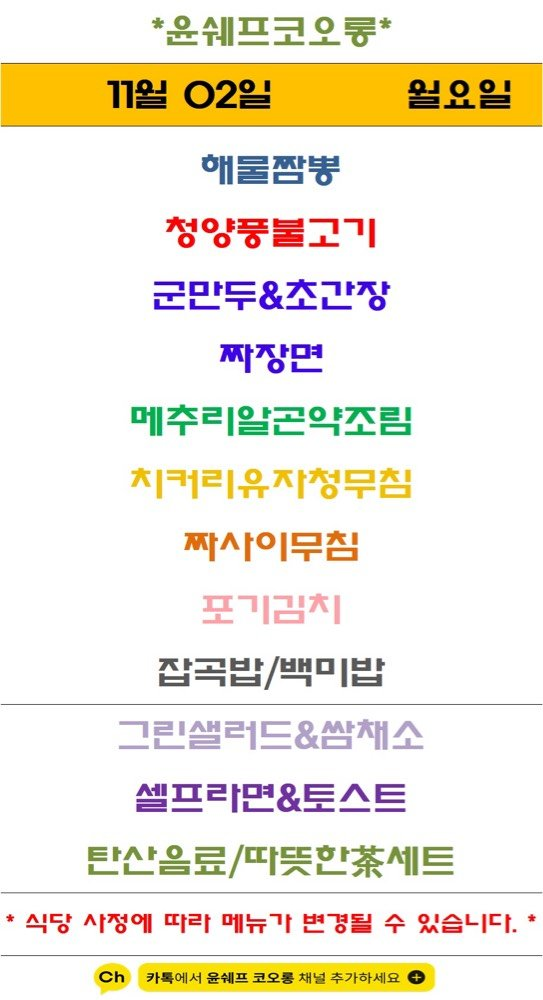
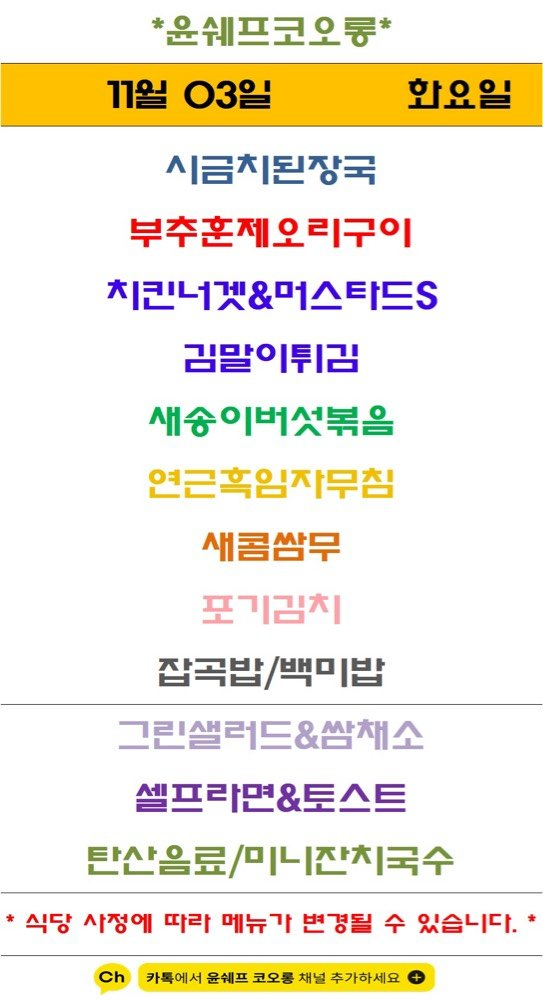
Update menu board assets

diff --git a/guro-menu/index.html b/guro-menu/index.html
@@ -32,7 +32,7 @@
   </header>
   <section class="meta">
     <div><small>기준 날짜</small><strong>2026년 11월 3일 화요일</strong></div>
-    <div><small>최종 갱신</small><strong>2026-11-03 09:03:43</strong></div>
+    <div><small>최종 갱신</small><strong>2026-11-03 09:13:56</strong></div>
     <div><small>등록 식당</small><strong>5개</strong></div>
   </section>
   <div class="notice">공개 카카오 채널의 메뉴 이미지를 자동 수집하고 OCR로 정리합니다. 텍스트에 오타가 있을 수 있으니 식단 이미지를 함께 확인해 주세요.</div>
@@ -104,7 +104,7 @@
         </div>
         <img class="menu-image" src="./images/yoon-chef-kolon.png" alt="윤쉐프 코오롱 식단 이미지" loading="lazy">
         <p class="message">최신 공개 식단 이미지의 텍스트입니다. 날짜는 원본 이미지를 확인해 주세요.</p>
-        <ul><li>정양풍불고기</li><li>군만두&amp;조관장</li><li>짜장면</li><li>메주리알곤약조림</li><li>시커리음자정무침</li><li>짜사이무침</li><li>잡곡밥/백미밥</li><li>그린샐러드&amp;쌈채소</li><li>셀프라면&amp;토스트</li><li>탄산음료/따뜻한추세트</li></ul>
+        <ul><li>월 O32! 한요일</li><li>시금지된장국</li><li>부주훈제오리구이</li><li>지킨너것&amp;머스타드6</li><li>러말이튀김</li><li>새송이버섯볶음</li><li>새콤쌈무</li><li>잡곡밥/백미밥</li><li>그린샐러드&amp;쌈재소</li><li>셀프라면&amp;토스트</li><li>탄산옴료/미니잔치국수</li></ul>
       </article>
   </section>
   <section class="seo" aria-label="검색 정보">한신IT타워 구내식당 자연푸드 구내식당 더이츠푸드 벽산더이룸 윤쉐프 코오롱 한신IT타워 벽산디지털밸리7차 대륭포스트타워1차 벽산디지털밸리1차 코오롱싸이언스밸리1차 서울 구로구 디지털로 272 한신IT타워 지하1층 서울 구로구 디지털로33길 50 벽산디지털밸리7차 지하1층 서울 구로구 디지털로 288 대륭포스트타워1차 지하1층 서울 구로구 디지털로27길 24 벽산디지털밸리1차 지하1층 서울 구로구 디지털로34길 43 코오롱싸이언스밸리1차 지하1층</section>

diff --git a/menu-today/index.html b/menu-today/index.html
@@ -209,7 +209,7 @@
 
     <section class="meta-bar">
       <div class="meta-card"><div class="meta-label">기준 날짜</div><div class="meta-value">2026년 11월 3일 화요일</div></div>
-      <div class="meta-card"><div class="meta-label">최종 가져온 시간</div><div class="meta-value">2026-11-03 09:03:31</div></div>
+      <div class="meta-card"><div class="meta-label">최종 가져온 시간</div><div class="meta-value">2026-11-03 09:13:43</div></div>
       <div class="meta-card"><div class="meta-label">확인 완료</div><div class="meta-value">9개 식당</div></div>
       <div class="meta-card"><div class="meta-label">준비중</div><div class="meta-value">3개 채널</div></div>
     </section>
